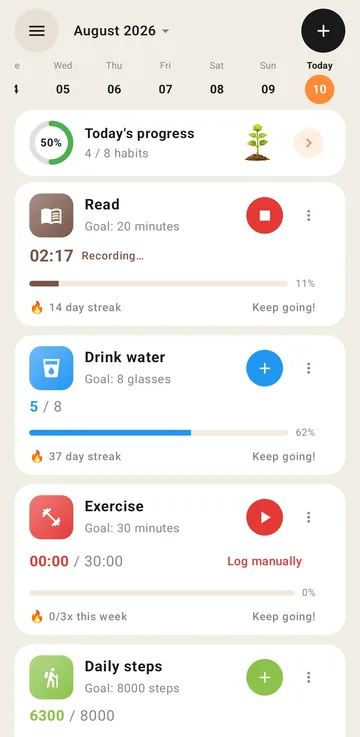
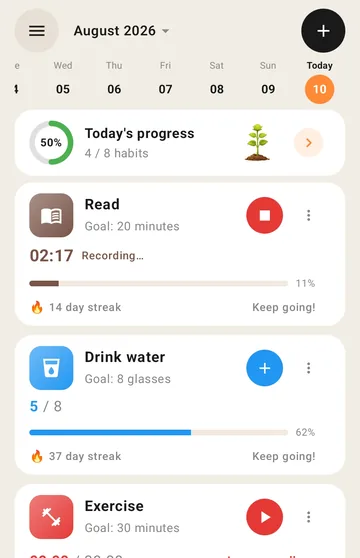
Crop every screenshot to one box so the strip stops looking ragged
The six were cropped to whatever each frame needed for the Play carousel —
2210, 2020, 2210, 2210, 2210 and 1674 tall — so on the page they ended at
different heights and their captions sat on different baselines.

Taking the Play Store images instead would have fixed the sizes and brought a
new problem: each has a marketing headline burnt into a saturated colour
panel, which on a page that already has its own headings and captions is the
same words twice over six clashing backgrounds.

So tools/make-screens.py goes back to the 1080x2460 captures and crops all
six to the same box. The top offsets are the ones the app repo already uses
and each has a reason — 100 clears a status bar carrying a carrier label and
a clock frozen by SystemUI demo mode; 636 on the start frame drops a
"0 / 0 habits" card that argues with a caption about not starting over. The
floors are the dock at y=2160 and the nav bar at y=2310. That leaves 1674px
on the tightest frame, so 1674 is what they all share.

It suits the layout too: at a 360px grid cell that is a 558px card, where the
2210 crop was 737px and dominated the screen.

Audit still passes, 13 widths, no overflow and no distortion.

diff --git a/index.html b/index.html
@@ -29,35 +29,35 @@ wide: true
   <figure class="shot">
     <img src="{{ '/assets/img/screens/01-home-360.webp' | absolute_url }}"
          srcset="{{ '/assets/img/screens/01-home-360.webp' | absolute_url }} 360w, {{ '/assets/img/screens/01-home-720.webp' | absolute_url }} 720w"
-         sizes="{{ sizes }}" width="360" height="737" loading="lazy" decoding="async"
+         sizes="{{ sizes }}" width="360" height="558" loading="lazy" decoding="async"
          alt="Kaizenly home screen showing today's habits, a running timer and a part-filled water counter">
     <figcaption>Tick it, time it, or log a number</figcaption>
   </figure>
   <figure class="shot">
     <img src="{{ '/assets/img/screens/02-widgets-360.webp' | absolute_url }}"
          srcset="{{ '/assets/img/screens/02-widgets-360.webp' | absolute_url }} 360w, {{ '/assets/img/screens/02-widgets-720.webp' | absolute_url }} 720w"
-         sizes="{{ sizes }}" width="360" height="673" loading="lazy" decoding="async"
+         sizes="{{ sizes }}" width="360" height="558" loading="lazy" decoding="async"
          alt="An Android home screen with all four Kaizenly widgets placed on it">
     <figcaption>Four widgets on your home screen</figcaption>
   </figure>
   <figure class="shot">
     <img src="{{ '/assets/img/screens/03-stats-360.webp' | absolute_url }}"
          srcset="{{ '/assets/img/screens/03-stats-360.webp' | absolute_url }} 360w, {{ '/assets/img/screens/03-stats-720.webp' | absolute_url }} 720w"
-         sizes="{{ sizes }}" width="360" height="737" loading="lazy" decoding="async"
+         sizes="{{ sizes }}" width="360" height="558" loading="lazy" decoding="async"
          alt="Kaizenly statistics screen with a consistency ring, trend line and stat tiles">
     <figcaption>Consistency, streaks and a whole year</figcaption>
   </figure>
   <figure class="shot">
     <img src="{{ '/assets/img/screens/04-detail-360.webp' | absolute_url }}"
          srcset="{{ '/assets/img/screens/04-detail-360.webp' | absolute_url }} 360w, {{ '/assets/img/screens/04-detail-720.webp' | absolute_url }} 720w"
-         sizes="{{ sizes }}" width="360" height="737" loading="lazy" decoding="async"
+         sizes="{{ sizes }}" width="360" height="558" loading="lazy" decoding="async"
          alt="A single habit's detail screen with its trend and a month of completed days">
     <figcaption>Every habit keeps its own record</figcaption>
   </figure>
   <figure class="shot">
     <img src="{{ '/assets/img/screens/05-achievements-360.webp' | absolute_url }}"
          srcset="{{ '/assets/img/screens/05-achievements-360.webp' | absolute_url }} 360w, {{ '/assets/img/screens/05-achievements-720.webp' | absolute_url }} 720w"
-         sizes="{{ sizes }}" width="360" height="737" loading="lazy" decoding="async"
+         sizes="{{ sizes }}" width="360" height="558" loading="lazy" decoding="async"
          alt="Kaizenly achievements screen with unlocked streak milestone badges">
     <figcaption>Reach a milestone and it stays yours</figcaption>
   </figure>

diff --git a/loop-habit-tracker-widgets.html b/loop-habit-tracker-widgets.html
@@ -67,7 +67,7 @@ different idea, though — and which idea you want decides the answer.</p>
   <figure class="shot-solo">
     <img src="{{ '/assets/img/screens/02-widgets-360.webp' | absolute_url }}"
          srcset="{{ '/assets/img/screens/02-widgets-360.webp' | absolute_url }} 360w, {{ '/assets/img/screens/02-widgets-720.webp' | absolute_url }} 720w"
-         sizes="min(320px, 80vw)" width="360" height="673" loading="lazy" decoding="async"
+         sizes="min(320px, 80vw)" width="360" height="558" loading="lazy" decoding="async"
          alt="An Android home screen with all four Kaizenly widgets: the progress plant, a single habit, the year heatmap and the trend chart">
     <figcaption>All four, on one home screen</figcaption>
   </figure>

diff --git a/tools/make-screens.py b/tools/make-screens.py
@@ -1,0 +1,106 @@
+#!/usr/bin/env python3
+"""
+Builds the site's phone screenshots from the raw captures in the app repo.
+
+    python3 tools/make-screens.py [--src ../habit_tracker/tools/screenshots-raw/en]
+
+Writes assets/img/screens/<name>-{360,720}.webp.
+
+WHY NOT JUST REUSE THE PLAY STORE IMAGES
+
+Two candidate sources exist in the app repo, and neither works as-is:
+
+  tools/store-art/screenshots/  All exactly 1080x1920, so they tile perfectly —
+                                but each carries a marketing headline burnt into a
+                                saturated colour panel ("START SMALL. TODAY
+                                COUNTS."). On a page that already has its own
+                                headings and captions, that is the same words
+                                twice and six loud backgrounds fighting the layout.
+
+  tools/store-art/screens/      Clean app UI, no headlines — but cropped to
+                                whatever each frame needed for the Play carousel,
+                                so the heights run 2210, 2020, 2210, 2210, 2210,
+                                1674. Laid out in a row they end at different
+                                points and the captions sit at different heights.
+
+So this goes back to the 1080x2460 captures and crops every one to the SAME box.
+
+PICKING THE BOX
+
+Each frame has a top offset that exists for a reason, carried over from
+make-screenshots.py in the app repo:
+
+  100   clears the status bar, which holds a carrier label, a data-usage readout
+        and a clock frozen at 8:16 by SystemUI demo mode
+  636   on the start frame, drops the "0 / 0 habits - 0%" card, which is honest
+        for a fresh install but argues with a caption about not starting over
+
+and a floor it must not cross: the widgets frame has to stay above the dock of
+personal apps at y=2160, everything else above the nav bar at y=2310.
+
+That leaves 1674px of usable height on the start frame and more on the others, so
+1674 is the height they can all share. It also happens to be a good shape for the
+page: at a 360px-wide grid cell that is a 558px-tall card, where the 2210 crop
+would have been 737px and dominated the screen.
+"""
+
+import argparse
+from pathlib import Path
+
+from PIL import Image
+
+ROOT = Path(__file__).resolve().parents[1]
+OUT = ROOT / "assets/img/screens"
+
+HEIGHT = 1674
+WIDTHS = (360, 720)
+
+# capture stem -> (output name, top offset)
+SHOTS = [
+    ("home-timer",            "01-home",         100),
+    ("widgets",               "02-widgets",      100),
+    ("stats",                 "03-stats",        100),
+    ("detail",                "04-detail",       100),
+    ("achievements",          "05-achievements", 100),
+    ("template-updated-loop", "06-start",        636),
+]
+
+
+def main():
+    ap = argparse.ArgumentParser()
+    ap.add_argument("--src", default="../habit_tracker/tools/screenshots-raw/en",
+                    help="directory of raw 1080x2460 captures (gitignored in the app repo)")
+    args = ap.parse_args()
+
+    src = Path(args.src)
+    if not src.is_dir():
+        raise SystemExit(f"No such directory: {src}\n"
+                         f"The raw captures live in the app repo and are gitignored; "
+                         f"see docs/store-screenshots.md there for how to retake them.")
+
+    OUT.mkdir(parents=True, exist_ok=True)
+    for f in OUT.glob("*.webp"):
+        f.unlink()
+
+    total = 0
+    for stem, name, top in SHOTS:
+        matches = sorted(src.glob(stem + ".*"))
+        if not matches:
+            raise SystemExit(f"Missing capture: {src}/{stem}.*")
+        im = Image.open(matches[0]).convert("RGB")
+        if top + HEIGHT > im.height:
+            raise SystemExit(f"{stem}: crop runs past the bottom of a {im.height}px capture")
+        box = im.crop((0, top, im.width, top + HEIGHT))
+        for w in WIDTHS:
+            out = OUT / f"{name}-{w}.webp"
+            box.resize((w, round(HEIGHT * w / im.width)), Image.LANCZOS) \
+               .save(out, "WEBP", quality=82, method=6)
+            total += out.stat().st_size
+
+    print(f"  {len(SHOTS) * len(WIDTHS)} files, {total // 1024} KB total")
+    print(f"  every image {1080}x{HEIGHT} before resize — "
+          f"use width=\"360\" height=\"{round(HEIGHT * 360 / 1080)}\" on all six")
+
+
+if __name__ == "__main__":
+    main()
